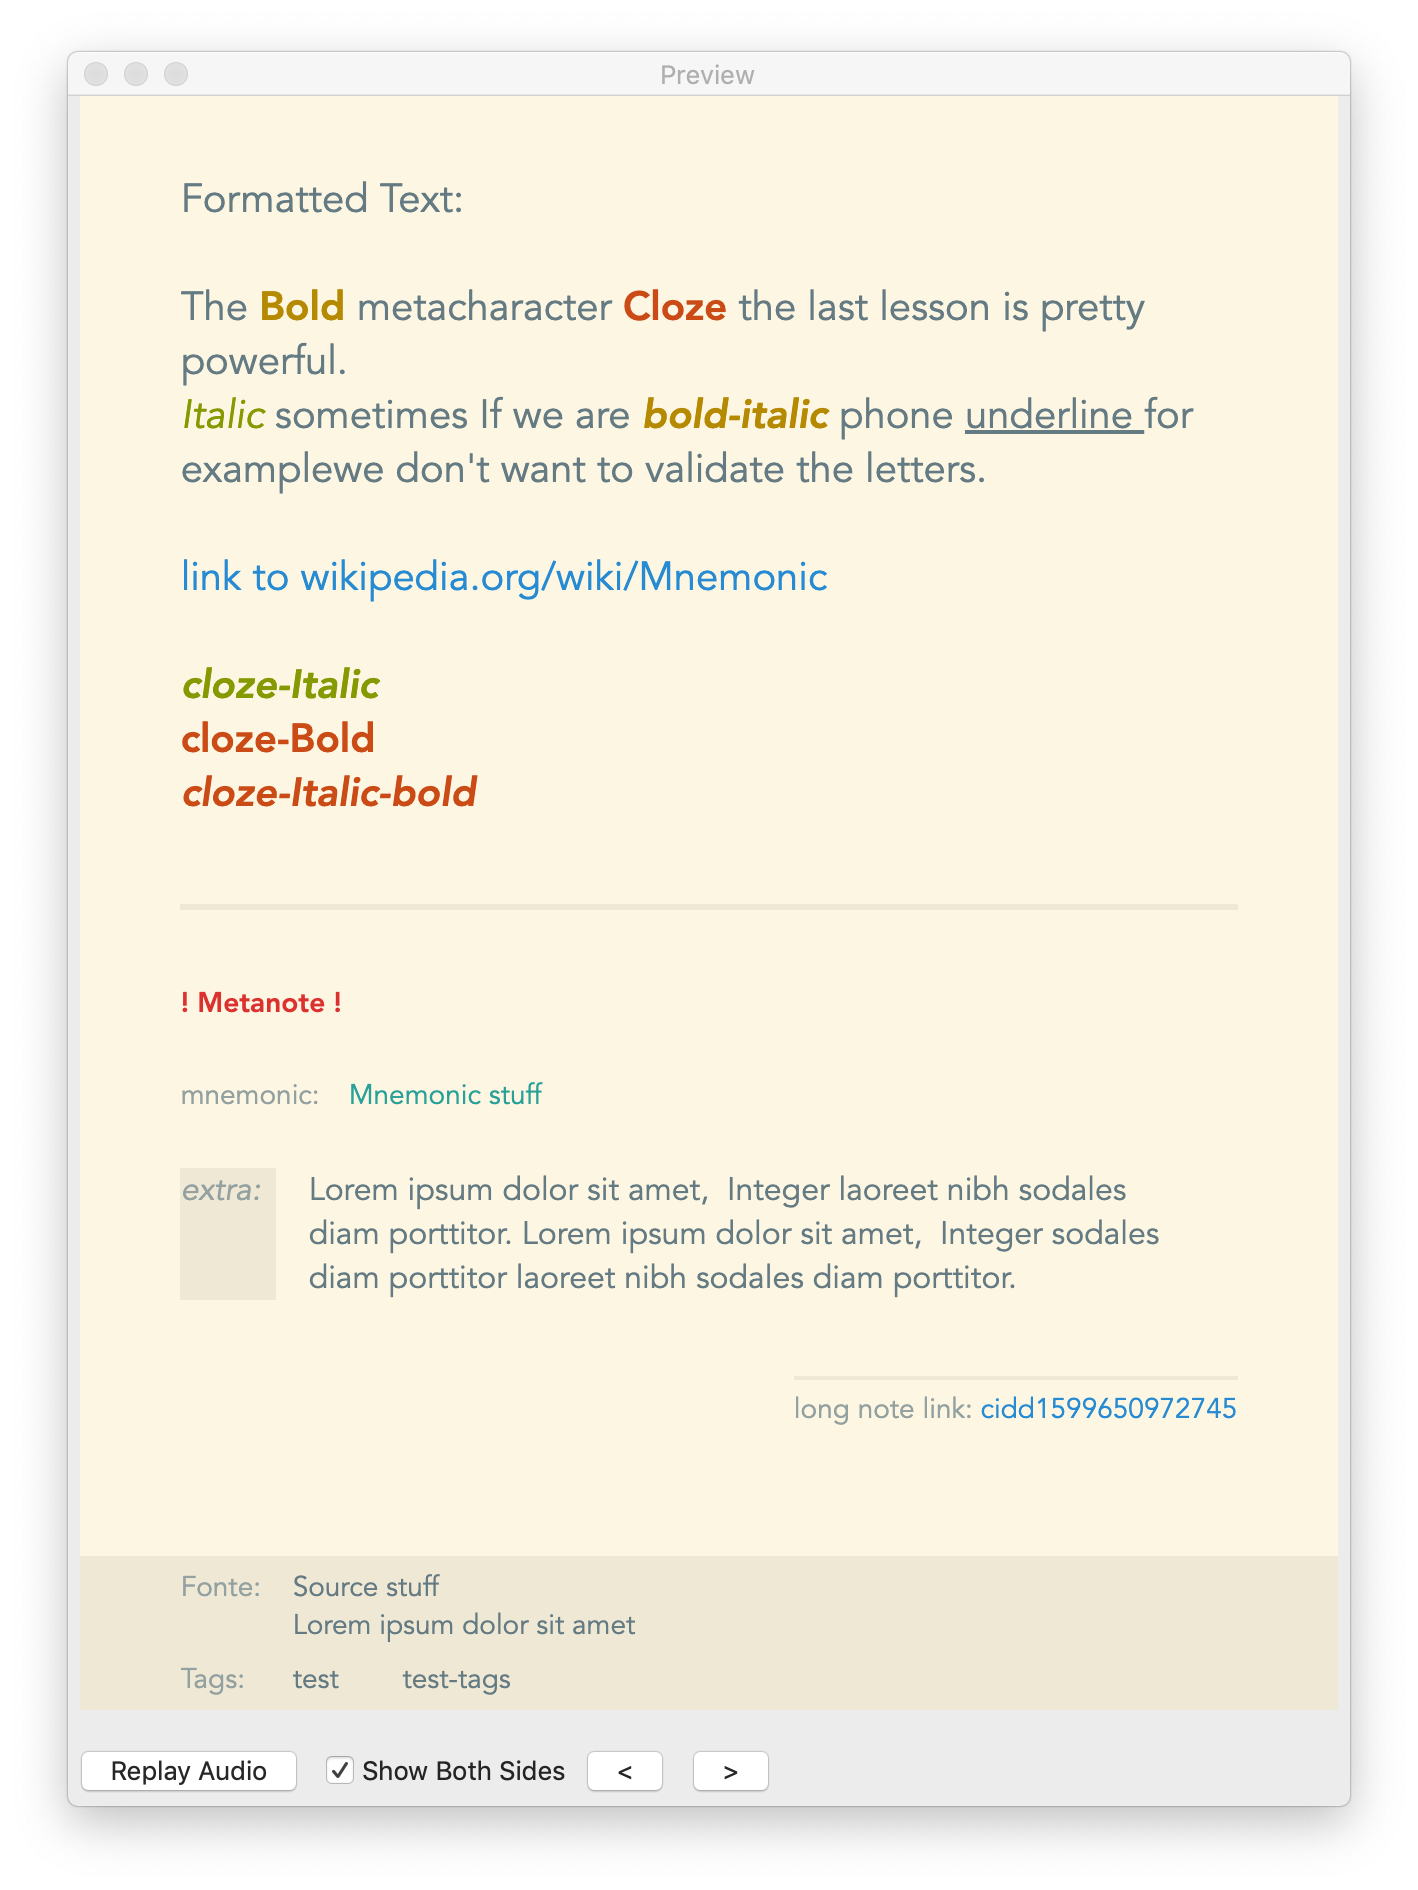
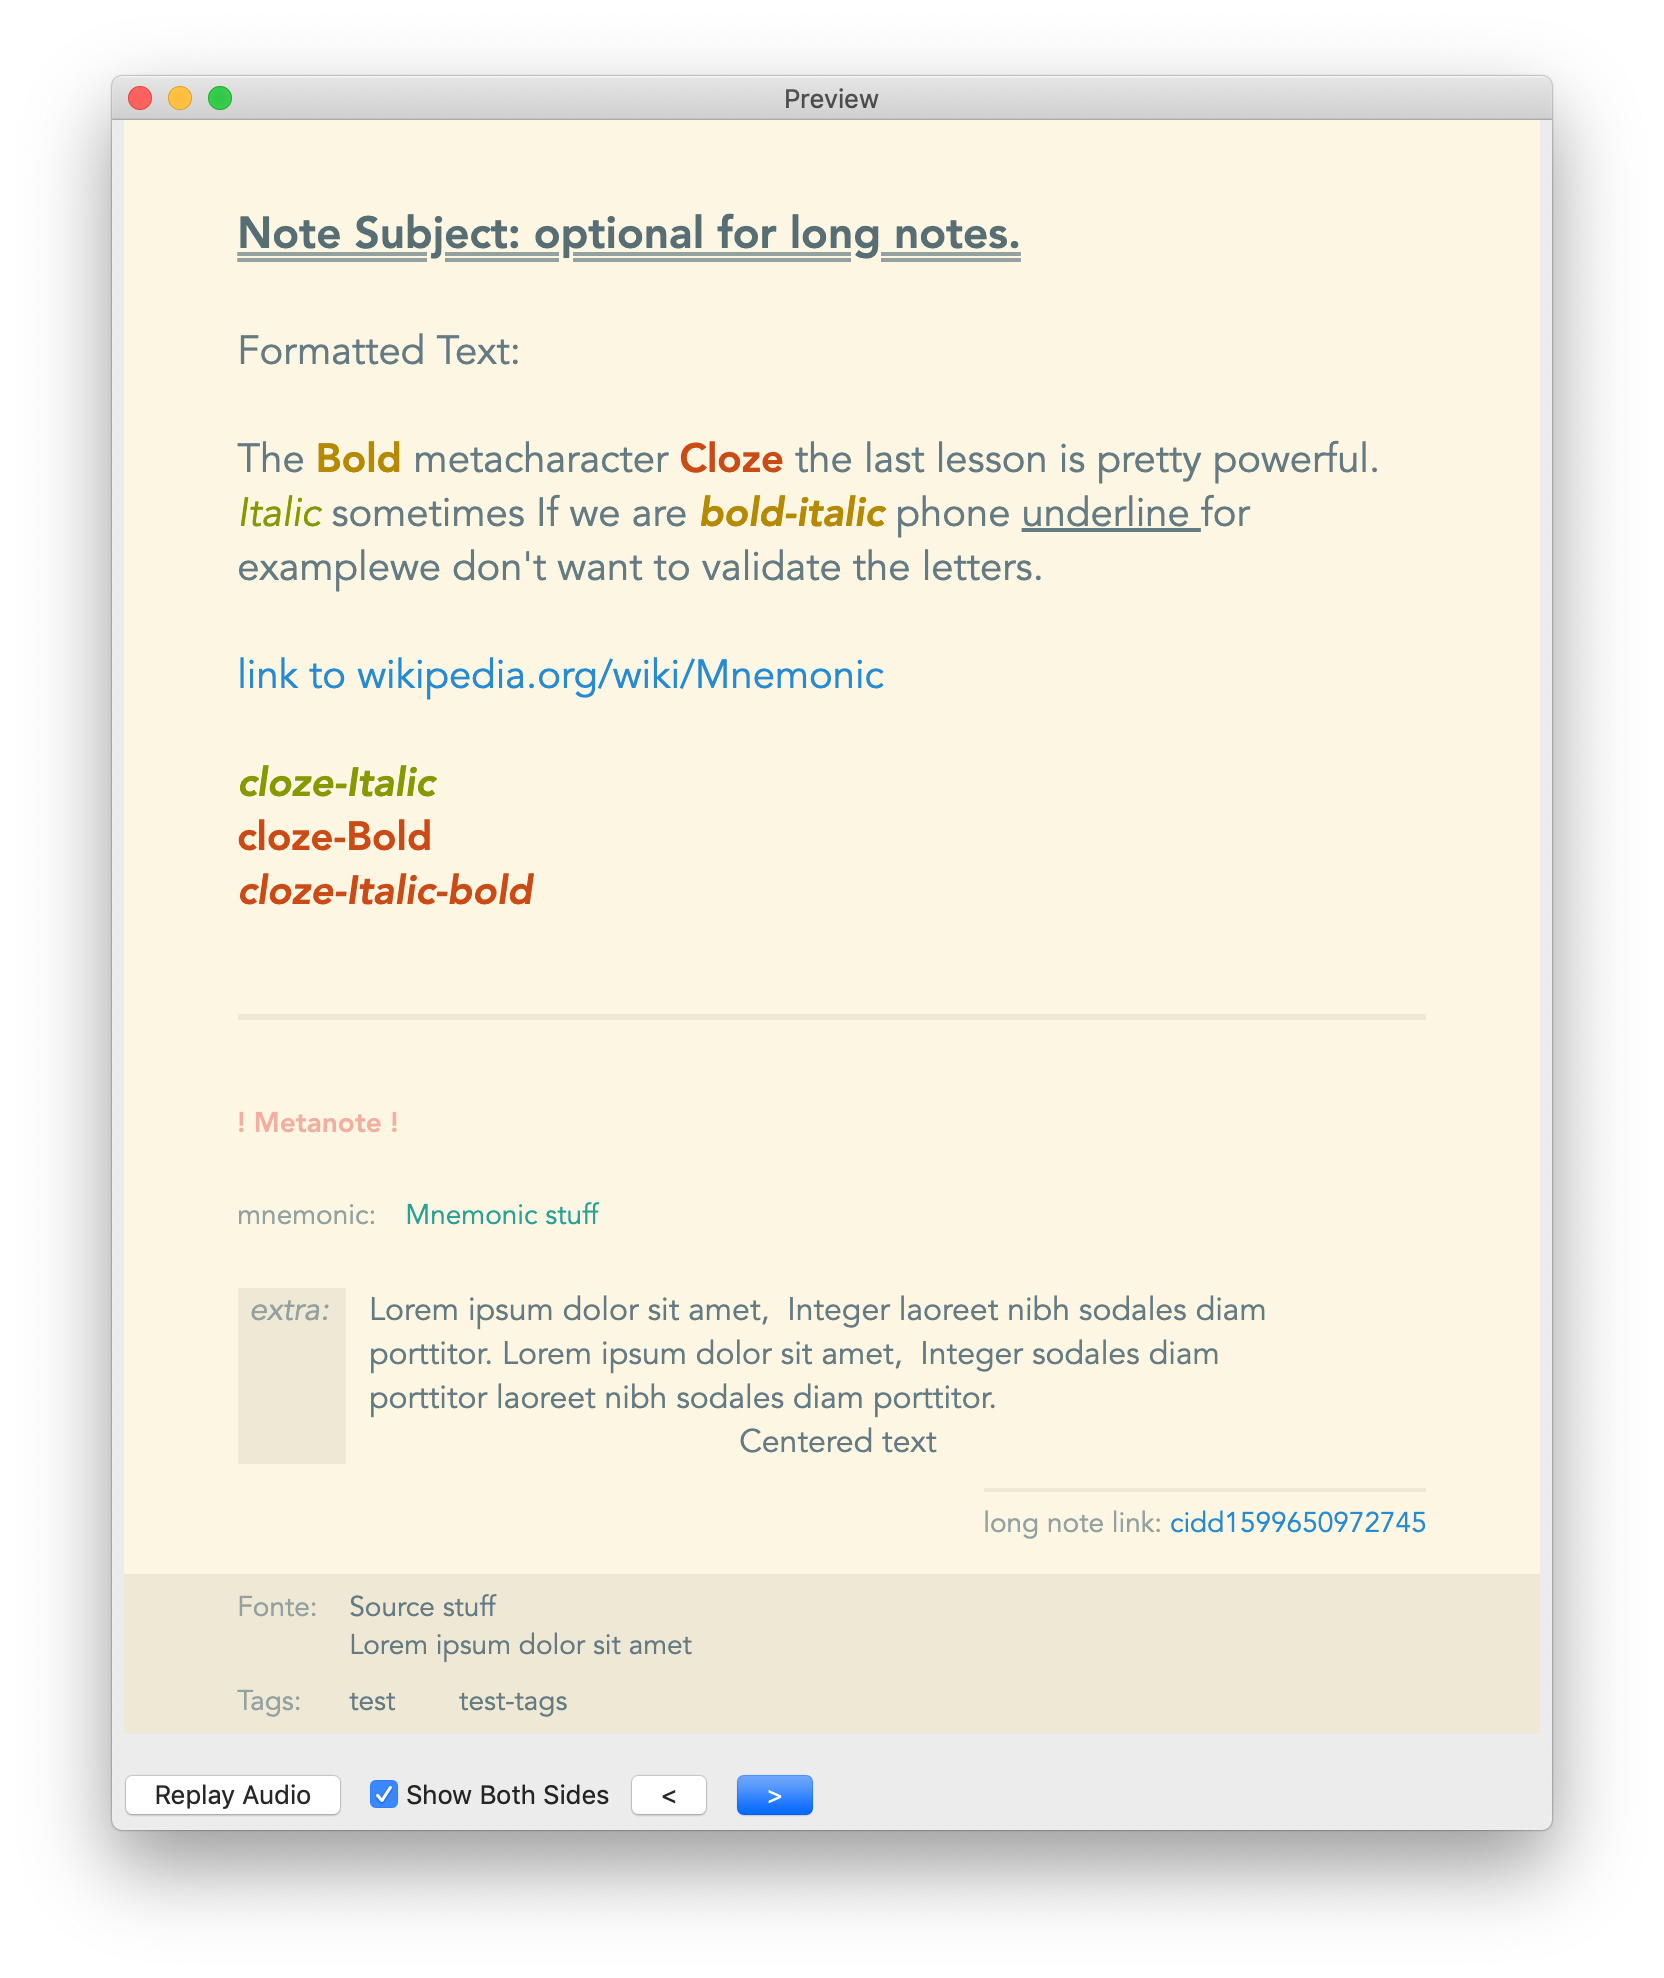
added right spacer in extra info, minor adjustments

diff --git a/cloze-card-main/flexbox.css b/cloze-card-main/flexbox.css
@@ -111,19 +111,26 @@ body {
     color: var(--solar-cyan);
 }
 
-.label-extra {
+.label-extra-sx {
     font-size: 16px;
     font-style: italic;
     color: var(--color-secondary);
+    padding-left: 1%;
     background: var(--color-background-hi);
     min-width: 3rem; /* -- in rem for consistency with ".footer .label" */
-    margin-right: 1em;
+}
+
+.label-extra-dx { /* -- spacer to center extra info -- */
+    font-size: 16px;
+    font-style: italic;
+    min-width: 3rem; /* -- in rem for consistency with ".footer .label" */
 }
 
 .extra-info {
     font-size: 16px;
     color: var(--color-primary);
-    padding-right: 5%;
+    padding: 0 2%;
+		flex-grow: 1; /* ensures it grows to fill the rest of card width left by label, important if short text is centered */
 }
 
 
@@ -148,16 +155,27 @@ body {
 
 /* --------------- CSS card elements ----------------- */
 
-.note-title {
-    font-size: 20px;
+.note-subject {
+    font-size: 22px;
     font-weight: bold;
-    color: var(--color-primary);
+    color: var(--color-emphasis);
+    text-decoration-line: underline;
+    text-decoration-style: double;
+    text-decoration-color: var(--color-secondary);
+
 }
 
 .metanote {
     font-size: 14px;
     font-weight: bold;
     color: var(--solar-red);
+    animation: flash 1s linear infinite; /* adds animation */
+}
+
+@keyframes flash { /* animation parameters */
+  50% {
+    opacity: 0;
+  }
 }
 
 .image {

diff --git a/cloze-card-main/flexbox-back.html b/cloze-card-main/flexbox-back.html
@@ -2,7 +2,7 @@
 
     <content class= "card-content">
         {{#Preamble}}
-            <div class= "note-title" > {{Preamble}} <br> <br> </div>
+            <div class= "note-subject" > {{Preamble}} <br> <br> </div>
         {{/Preamble}}
         {{cloze:Text1}}
         {{cloze:Text2}}
@@ -35,8 +35,9 @@
 
         {{#extra-info}}
         <div class= "panel">
-            <div class="label-extra"> extra: </div>
+            <div class="label-extra-sx"> extra: </div>
             <div class="extra-info"> {{extra-info}} </div>
+            <div class="label-extra-dx"> </div>
         </div>
         {{/extra-info}}
 

diff --git a/cloze-card-main/flexbox-front.html b/cloze-card-main/flexbox-front.html
@@ -1,7 +1,7 @@
 <container class="card-container">
     <content class= "card-content">
         {{#Preamble}}
-            <div class= "note-title" > {{Preamble}} <br> <br> </div>
+            <div class= "note-subject" > {{Preamble}} <br> <br> </div>
         {{/Preamble}}
         {{cloze:Text1}}
         {{cloze:Text2}}
